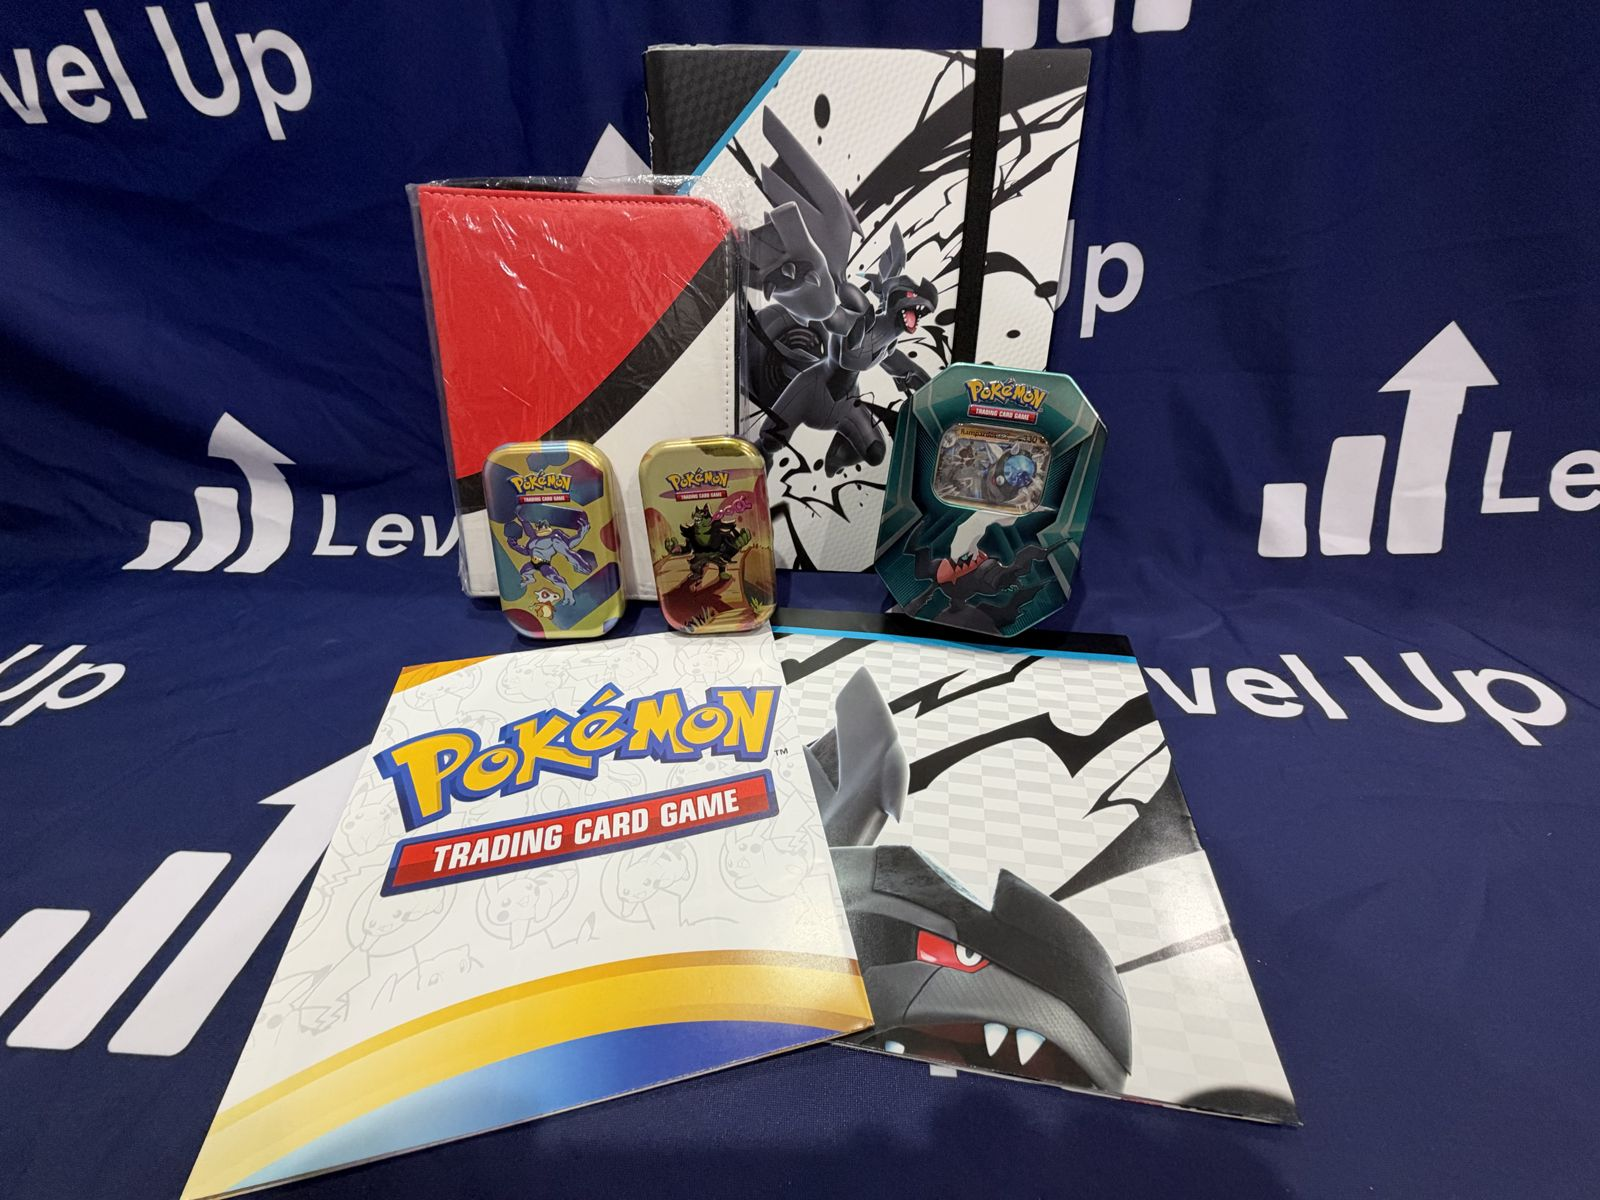
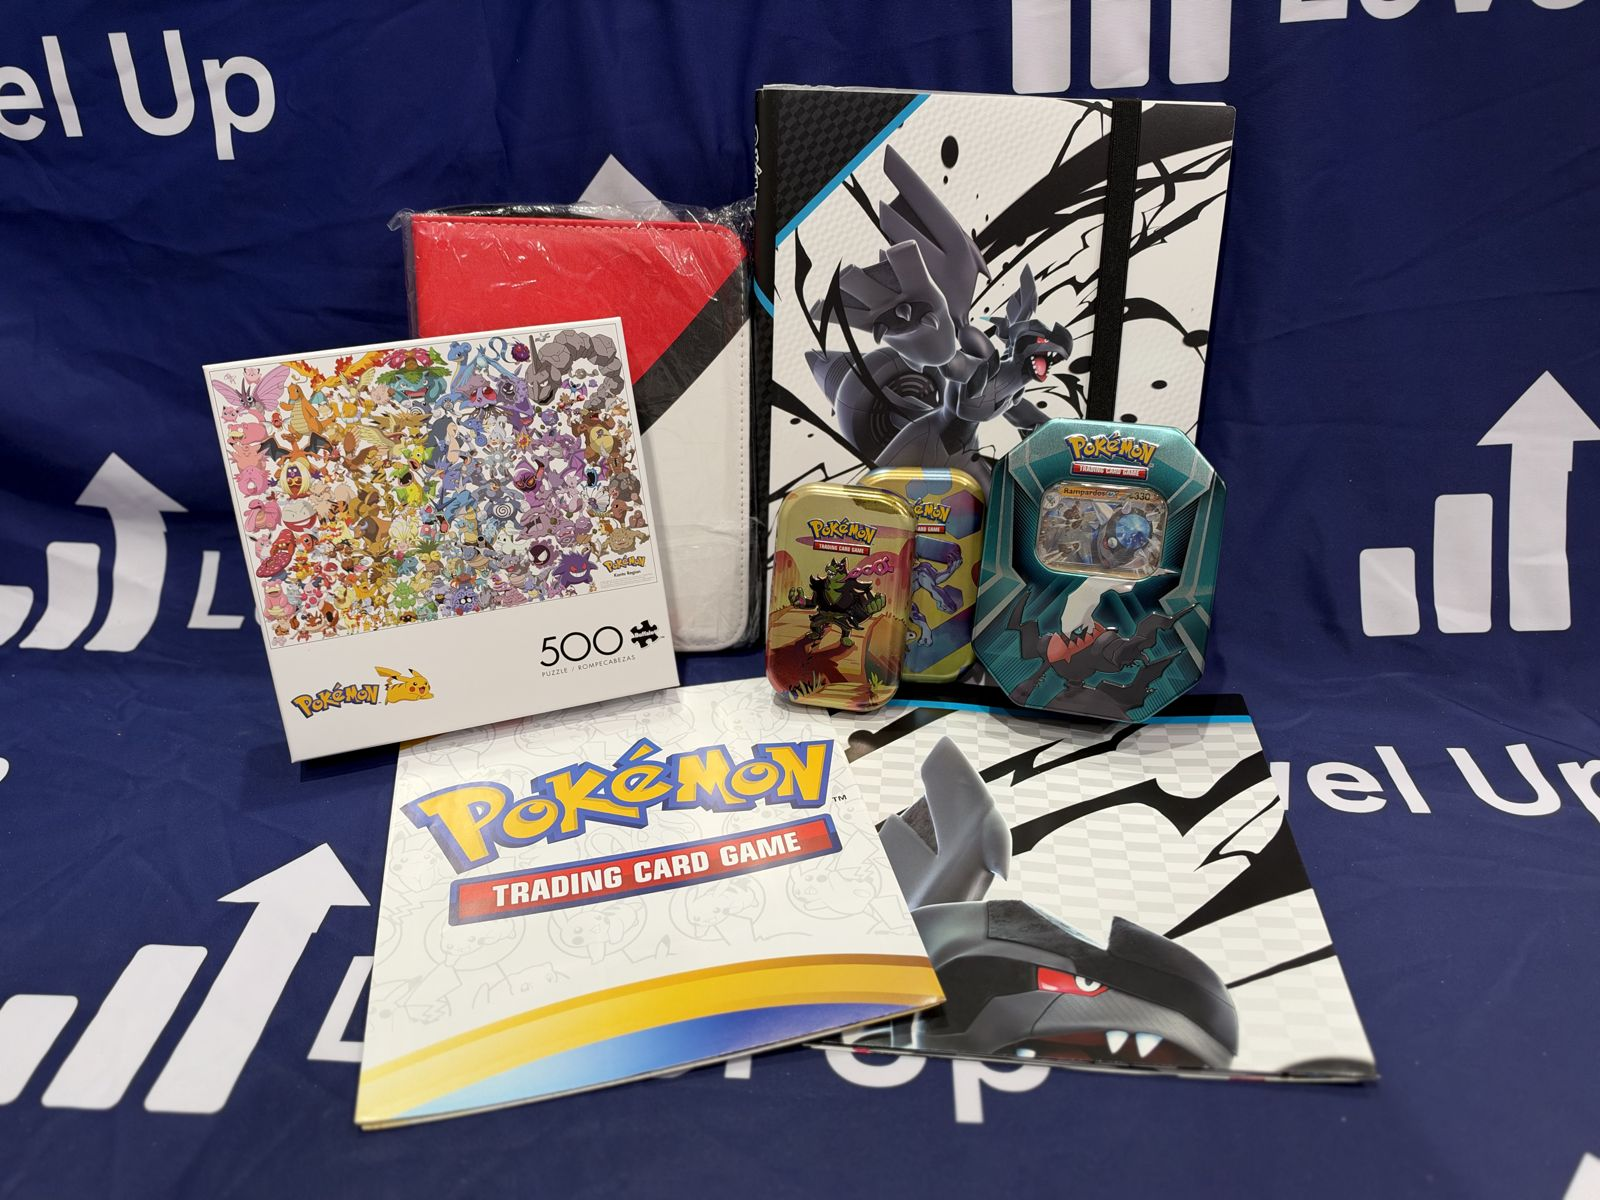
fix: Pokémon basket photos and contents now include the puzzles

diff --git a/raffle.html b/raffle.html
@@ -140,9 +140,9 @@
             { name: "The UNO-verse", image: "images/sweepstakes/uno-verse.jpg", forWhom: "UNO fans of every age", value: 65,
               items: ["UNO Teams*", "UNO Show 'Em No Mercy*", "Phase 10 Go*", "UNO Dice Game", "DOS", "UNO travel case edition", "Phase 10", "Skip-Bo"] },
             { name: "Pokémon Trainer A", image: "images/sweepstakes/pokemon-a.jpg", forWhom: "Pokémon fans", value: 40,
-              items: ["Pokémon card repack tin (Rampardos)", "2 Pokémon mini tins, repacked", "Poké Ball zip-up card binder*", "Zekrom card binder", "2 Pokémon TCG folders"] },
+              items: ["Pokémon card repack tin (Rampardos)", "2 Pokémon mini tins, repacked", "Poké Ball zip-up card binder*", "Zekrom card binder", "Pokémon Kanto Region 500-piece puzzle*", "2 Pokémon TCG folders"] },
             { name: "Pokémon Trainer B", image: "images/sweepstakes/pokemon-b.jpg", forWhom: "Pokémon fans", value: 40,
-              items: ["Pokémon card repack tin (Tyranitar)", "2 Pokémon mini tins, repacked", "Charizard card binder*", "2 Pokémon TCG folders"] },
+              items: ["Pokémon card repack tin (Tyranitar)", "2 Pokémon mini tins, repacked", "Charizard card binder (holds 252 cards)*", "Pokémon 500-piece puzzle*", "2 Pokémon TCG folders"] },
             { name: "Workshop-in-a-Box", forWhom: "Bring a Level Up workshop home, ages 6+", value: 70, featured: true,
               items: ["Forbidden Island", "Sorry!", "Battleship Grab & Go*", "UNO*", "Connect 4", "Level Up parental guides for every game: how we teach them in our workshops"] },
         ];
